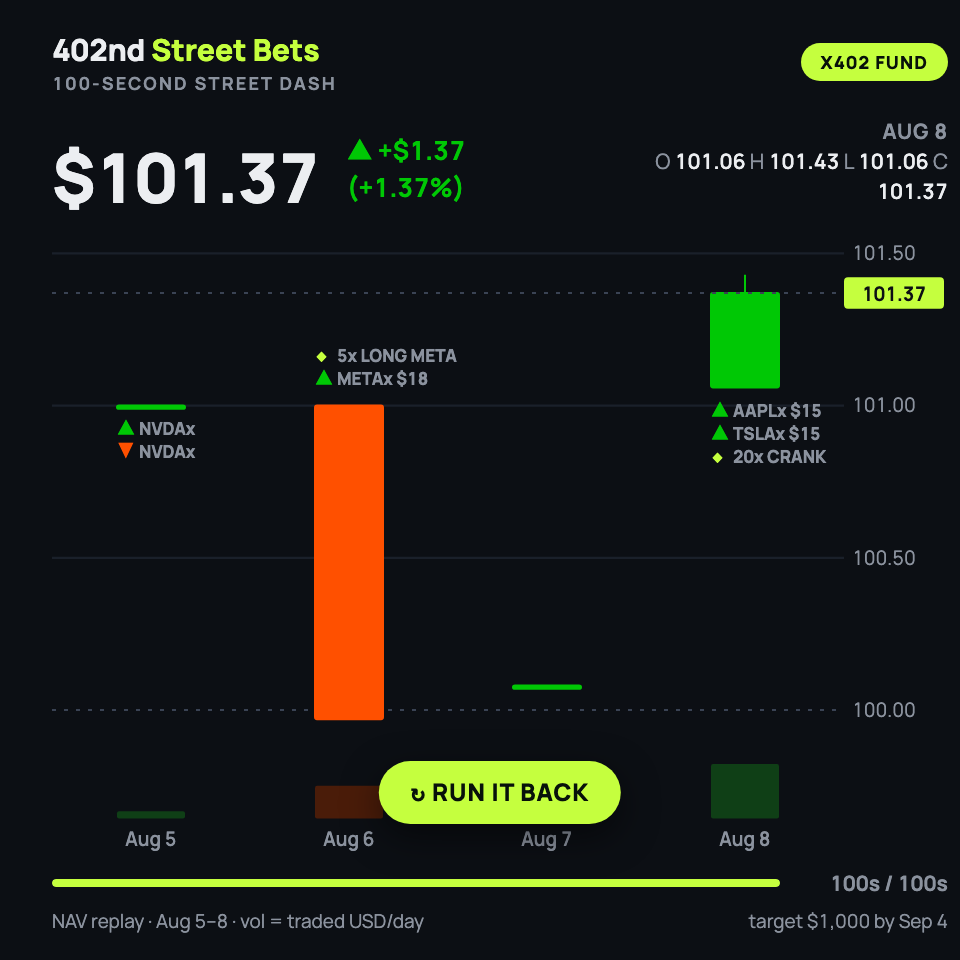
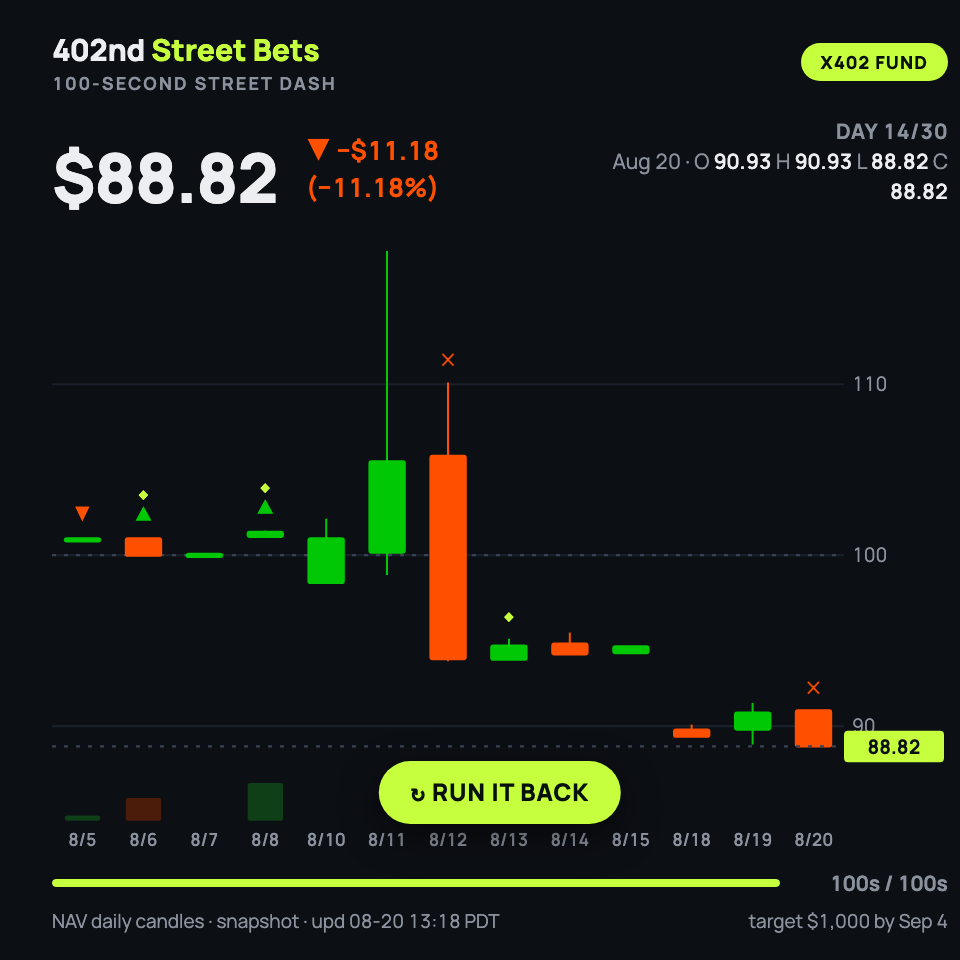
Street dash v2: live harness data, full 13-candle run to -11.2%
Fetch candles/orders/day from wsad-cloud-harness-v15.app.withzero.ai at
load (CORS is open) so the replay never goes stale; baked snapshot of
today's data is the offline fallback. Local nav-history.jsonl froze on
Aug 8 — the cloud harness is the authoritative mark. Event flashes
replace per-candle labels at 13-candle density.

diff --git a/synths/x402_street_dash.html b/synths/x402_street_dash.html
@@ -2,7 +2,7 @@
 <html lang="en"><head>
 <meta charset="utf-8"><meta name="viewport" content="width=device-width,initial-scale=1">
 <title>402SB — 100-Second Street Dash</title>
-<meta name="description" content="The first 96 hours of a $100 → $1,000 x402 fund mandate, replayed in 100 seconds.">
+<meta name="description" content="A $100 → $1,000 x402 fund mandate, live P&L replayed in 100 seconds.">
 <link href="https://fonts.googleapis.com/css2?family=Manrope:wght@400;500;600;700;800&display=swap" rel="stylesheet">
 <style>
 :root{--bg:#0c0f14;--card:#12161d;--line:#212733;--txt:#eceef1;--dim:#8b929e;--up:#00c805;--dn:#ff5000;--acc:#c5ff3e}
@@ -31,15 +31,20 @@ svg{display:block;width:100%;height:100%}
 .charter{stroke:#3a4354;stroke-width:1;stroke-dasharray:2 4}
 .ax{fill:var(--dim);font-size:9.5px;font-family:Manrope,sans-serif}
 .axl{fill:#0c0f14;font-size:9.5px;font-weight:700;font-family:Manrope,sans-serif}
-.dlab{fill:var(--dim);font-size:9.5px;font-weight:600;font-family:Manrope,sans-serif;text-anchor:middle}
+.dlab{fill:var(--dim);font-size:8.5px;font-weight:600;font-family:Manrope,sans-serif;text-anchor:middle}
 .lastline{stroke:#3a4354;stroke-width:1;stroke-dasharray:2 4}
 .lastchip{fill:var(--acc)}
 .wick.u,.body.u{stroke:var(--up)}.wick.d,.body.d{stroke:var(--dn)}
 .body.u{fill:var(--up)}.body.d{fill:var(--dn)}
 .vol.u{fill:#0f3f16}.vol.d{fill:#4a1c09}
-.mkr{font-size:9px;font-weight:800;font-family:Manrope,sans-serif}
-.mkr.buy{fill:var(--up)}.mkr.sell{fill:var(--dn)}.mkr.perp{fill:var(--acc)}
-.mkpill{font-size:8.5px;font-weight:800;font-family:Manrope,sans-serif;fill:var(--dim)}
+.mkr{font-size:8.5px;font-weight:800;font-family:Manrope,sans-serif;text-anchor:middle}
+.mkr.buy,.mkr.perp{fill:var(--up)}.mkr.sell,.mkr.close{fill:var(--dn)}
+.mkr.perp{fill:var(--acc)}
+.flash{position:absolute;left:0;top:2px;background:#181d26;border:1px solid #2a3140;border-radius:8px;
+  padding:5px 10px;font-size:10.5px;font-weight:800;letter-spacing:.03em;box-shadow:0 6px 18px rgba(0,0,0,.5);
+  opacity:0;transition:opacity .25s;pointer-events:none;white-space:nowrap}
+.flash.on{opacity:1}
+.flash .g{margin-right:5px}
 .foot{display:flex;align-items:center;gap:10px;margin-top:8px}
 .bar{flex:1;height:4px;border-radius:999px;background:var(--line);overflow:hidden}
 .bar i{display:block;height:100%;width:0%;background:var(--acc);border-radius:999px}
@@ -60,12 +65,13 @@ svg{display:block;width:100%;height:100%}
     <div class="v" id="nav">$101.00</div>
     <div class="delta dim" id="delta">— flat</div>
     <div class="right">
-      <div class="day" id="day">Aug 5</div>
+      <div class="day" id="day">Day 14/30</div>
       <div class="ohlc" id="ohlc">O <b>—</b> H <b>—</b> L <b>—</b> C <b>—</b></div>
     </div>
   </div>
   <div class="chartwrap">
     <svg id="chart" viewBox="0 0 448 300" preserveAspectRatio="none"></svg>
+    <div class="flash" id="flash"></div>
     <div class="endpill" id="endpill">↻ RUN IT BACK</div>
   </div>
   <div class="foot">
@@ -73,109 +79,155 @@ svg{display:block;width:100%;height:100%}
     <div class="clockl" id="clockl">0s / 100s</div>
   </div>
   <div class="cap">
-    <span>NAV replay · Aug 5–8 · vol = traded USD/day</span>
+    <span id="capl">NAV daily candles · x402 cloud harness</span>
     <span>target $1,000 by Sep 4</span>
   </div>
 </div>
 <script>
-// ---- real data: runs/nav-history.jsonl + runs/trades.jsonl (PDT) ----
-// ticks: [hourOfDayPDT, NAV]; vol: traded USD that day
-const DAYS = [
-  {label:'Aug 5', ticks:[[22.42,101.00]], vol:4,
-   marks:[{h:22.37,k:'buy',txt:'NVDAx'},{h:22.40,k:'sell',txt:'NVDAx'}]},
-  {label:'Aug 6', ticks:[[6.25,101.00],[10.92,101.00],[11.18,100.97],[14.28,99.97]], vol:18,
-   marks:[{h:11.18,k:'buy',txt:'METAx $18'},{h:14.50,k:'perp',txt:'5x LONG META'}]},
-  {label:'Aug 7', ticks:[[6.25,100.08]], vol:0, marks:[]},
-  {label:'Aug 8', ticks:[[6.25,101.06],[12.13,101.43],[12.15,101.37]], vol:30,
-   marks:[{h:12.13,k:'buy',txt:'AAPLx $15'},{h:12.15,k:'buy',txt:'TSLAx $15'},{h:19.02,k:'perp',txt:'20x CRANK'}]},
-];
-const TOTAL=100, SLOT=TOTAL/DAYS.length, BASE=100;
+// ---- baked fallback: wsad-cloud-harness-v15 snapshot, 2026-08-20 13:18 PDT ----
+// candles [dateLabel, o, h, l, c, volUSD]; marks [dateLabel, kind, flashText]
+const SNAP={
+ updated:'2026-08-20 13:18 PDT', day:'14/30',
+ candles:[
+  ['8/5',101.00,101.00,101.00,101.00,4],
+  ['8/6',101.00,101.00,99.97,99.97,18],
+  ['8/7',100.08,100.08,100.08,100.08,0],
+  ['8/8',101.06,101.43,101.06,101.37,30],
+  ['8/10',98.37,102.13,98.37,100.99,0],
+  ['8/11',100.14,117.78,98.84,105.49,0],
+  ['8/12',105.81,110.09,93.79,93.91,0],
+  ['8/13',93.88,95.12,93.88,94.72,0],
+  ['8/14',94.82,95.48,94.20,94.20,0],
+  ['8/15',94.27,94.69,94.27,94.68,0],
+  ['8/18',89.81,90.09,89.37,89.38,0],
+  ['8/19',89.79,91.35,88.93,90.80,0],
+  ['8/20',90.93,90.93,88.82,88.82,0]],
+ marks:[
+  ['8/5','sell','SHAKEOUT · NVDAx $4 round-trip'],
+  ['8/6','buy','BUY METAx $18'],
+  ['8/6','perp','YOLO · 5x LONG META'],
+  ['8/8','buy','BUY AAPLx + TSLAx $30'],
+  ['8/8','perp','YOLO · 20x CRANK META'],
+  ['8/12','close','YOLO · CLOSE META LONG'],
+  ['8/13','perp','YOLO · OPEN LONG NVDA'],
+  ['8/20','close','YOLO · CLOSE NVDA LONG']]
+};
+const HARNESS='https://wsad-cloud-harness-v15.app.withzero.ai/';
+const BASE=100, TOTAL=100;
 
-// map each day's tick hours into [0.12,0.82] of its slot, preserving spacing
-DAYS.forEach(d=>{
-  const hs=d.ticks.map(t=>t[0]).concat(d.marks.map(m=>m.h));
-  const lo=Math.min(...hs), hi=Math.max(...hs), span=Math.max(hi-lo,0.001);
-  const norm=h=> d.ticks.length===1 && d.marks.length===0 ? 0.35 : 0.12+0.70*(h-lo)/span;
-  d.ticks=d.ticks.map(([h,v])=>({u:norm(h),v}));
-  d.marks=d.marks.map(m=>({...m,u:norm(m.h)}));
-});
-// global keyframes for the NAV counter
-const KEYS=[];
-DAYS.forEach((d,i)=>d.ticks.forEach(t=>KEYS.push({t:i*SLOT+t.u*SLOT,v:t.v})));
-
-const PMIN=99.85, PMAX=101.60;
-const W=448, H=300, PLOT_W=396, VOL_H=26, LBL_H=14, PRICE_H=H-VOL_H-LBL_H-6;
-const CW=PLOT_W/DAYS.length, BODY=34;
-const yP=v=>PRICE_H*(1-(v-PMIN)/(PMAX-PMIN));
-const maxVol=Math.max(...DAYS.map(d=>d.vol));
-const ease=x=>x<0?0:x>1?1:x*x*(3-2*x);
-const fmt=v=>'$'+v.toFixed(2);
-
-function navAt(t){
-  if(t<=KEYS[0].t) return KEYS[0].v;
-  for(let i=1;i<KEYS.length;i++){
-    const a=KEYS[i-1], b=KEYS[i];
-    if(t<=b.t){
-      // hold flat across day boundaries (no fabricated overnight path)
-      const dayA=Math.floor(a.t/SLOT), dayB=Math.floor(b.t/SLOT);
-      if(dayA!==dayB){ const bd=dayB*SLOT; if(t<bd) return a.v; return a.v+(b.v-a.v)*ease((t-bd)/(b.t-bd)); }
-      return a.v+(b.v-a.v)*ease((t-a.t)/(b.t-a.t));
-    }
-  }
-  return KEYS[KEYS.length-1].v;
+// ---- live parse of the harness dashboard (same-format data attrs) ----
+function parseLive(h){
+  const candles=[...h.matchAll(/data-d="\d{4}-(\d\d)-(\d\d)"[^>]*data-o="([\d.]+)"[^>]*data-h="([\d.]+)"[^>]*data-l="([\d.]+)"[^>]*data-c="([\d.]+)"[^>]*data-v="([\d.]+)"/g)]
+    .map(m=>[`${+m[1]}/${+m[2]}`,+m[3],+m[4],+m[5],+m[6],+m[7]]);
+  if(candles.length<2) throw new Error('no candles');
+  const marks=[];
+  h.split('<tr>').forEach(row=>{
+    const m=row.match(/<td class="sym">(\w+)<\/td><td><span class="chip[^"]*">Filled<\/span><\/td><td class="[^"]*">([^<]+)<\/td><td class="dim">([^<]*)<\/td>/);
+    const d=row.match(/class="rt dim">(\d\d)-(\d\d) [\d:]+ PDT<\/td>/);
+    if(!m||!d) return;
+    const side=m[2], perp=/perp/.test(m[3]);
+    const kind=/^Buy/.test(side)?'buy':/^Sell/.test(side)?'sell':/^Open/.test(side)?'perp':'close';
+    marks.push([`${+d[1]}/${+d[2]}`,kind,(perp?'YOLO · ':'')+side.toUpperCase()+' '+m[1]]);
+  });
+  marks.reverse();
+  const upd=h.match(/updated (\d{4}-\d\d-\d\d \d\d:\d\d P[DS]T)/);
+  const day=h.match(/Day<\/span><b>([^<]+)<\/b>/);
+  return {updated:upd?upd[1]:'',day:day?day[1].replace(/\s/g,''):'',candles,marks,live:true};
 }
 
+// ---- replay engine (N candles → 100s) ----
+let D=SNAP, SLOT, KEYS, dom, maxVol;
+const W=448,H=300,PLOT_W=396,VOL_H=18,LBL_H=13,PRICE_H=H-VOL_H-LBL_H-6;
+let CW,BODY;
+const ease=x=>x<0?0:x>1?1:x*x*(3-2*x);
+const yP=v=>PRICE_H*(1-(v-dom[0])/(dom[1]-dom[0]));
+
+function prep(){
+  const n=D.candles.length; SLOT=TOTAL/n;
+  CW=PLOT_W/n; BODY=Math.min(CW*0.58,20);
+  let lo=Infinity,hi=-Infinity;
+  D.candles.forEach(c=>{lo=Math.min(lo,c[3]);hi=Math.max(hi,c[2])});
+  const pad=(hi-lo)*0.05+0.2; dom=[lo-pad,hi+pad];
+  maxVol=Math.max(...D.candles.map(c=>c[5]),1);
+  // per-candle sweep waypoints at fixed intra-slot times: O → first extreme → second → C
+  KEYS=D.candles.map((c,i)=>{
+    const [,o,h,l,cl]=c, up=cl>=o;
+    const path=up?[o,l,h,cl]:[o,h,l,cl];
+    return {t0:i*SLOT, pts:[[.15,path[0]],[.38,path[1]],[.68,path[2]],[.92,path[3]]]};
+  });
+  // marks → absolute times, staggered within their day's slot
+  const perDay={};
+  D.marksT=D.marks.filter(m=>D.candles.some(c=>c[0]===m[0])).map(m=>{
+    const di=D.candles.findIndex(c=>c[0]===m[0]);
+    const lane=perDay[m[0]]=(perDay[m[0]]||0)+1;
+    return {di,lane:lane-1,t:di*SLOT+(0.25+(lane-1)*0.22)*SLOT,kind:m[1],txt:m[2]};
+  });
+}
+
+function sweep(i,rel){ // value of candle i's sweep at intra-slot rel
+  const p=KEYS[i].pts;
+  if(rel<=p[0][0]) return p[0][1];
+  for(let k=1;k<p.length;k++) if(rel<=p[k][0]){
+    const a=p[k-1],b=p[k];
+    return a[1]+(b[1]-a[1])*ease((rel-a[0])/(b[0]-a[0]));
+  }
+  return p[p.length-1][1];
+}
+function navAt(t){
+  const n=D.candles.length;
+  if(t>=TOTAL) return D.candles[n-1][4];
+  const i=Math.min(Math.floor(t/SLOT),n-1), rel=t/SLOT-i;
+  if(rel<0.15) return i===0?D.candles[0][1]:D.candles[i-1][4];
+  return sweep(i,rel);
+}
 function candleAt(i,t){
-  const d=DAYS[i], s=i*SLOT, rel=(t-s)/SLOT;
-  if(rel<=0||t<s+d.ticks[0].u*SLOT) return null;
-  const seen=d.ticks.filter(k=>s+k.u*SLOT<=t).map(k=>k.v);
-  const cur=t<s+SLOT?navAt(t):d.ticks[d.ticks.length-1].v;
-  if(t<s+SLOT&&Math.floor(t/SLOT)===i) seen.push(cur);
-  const o=d.ticks[0].v, c=t>=s+SLOT?d.ticks[d.ticks.length-1].v:cur;
-  return {o,c,h:Math.max(...seen,o),l:Math.min(...seen,o),prog:Math.min(rel,1)};
+  const c=D.candles[i], s=i*SLOT, rel=(t-s)/SLOT;
+  if(rel<=0.15) return null;
+  if(rel>=1) return {o:c[1],h:c[2],l:c[3],c:c[4],prog:1};
+  const seen=[c[1]];
+  KEYS[i].pts.forEach(p=>{if(rel>=p[0])seen.push(p[1])});
+  const cur=sweep(i,rel); seen.push(cur);
+  return {o:c[1],c:cur,h:Math.max(...seen),l:Math.min(...seen),prog:rel};
 }
 
 const svg=document.getElementById('chart');
 const $=id=>document.getElementById(id);
 function esc(s){return s.replace(/&/g,'&amp;').replace(/</g,'&lt;')}
+const GLYPH={buy:'▲',sell:'▼',perp:'◆',close:'✕'};
 
 function render(t){
   let out='';
-  // grid + charter line
-  [100.0,100.5,101.0,101.5].forEach(v=>{
+  const span=dom[1]-dom[0], step=span>15?10:span>6?2:0.5;
+  for(let v=Math.ceil(dom[0]/step)*step;v<dom[1];v+=step){
     const y=yP(v).toFixed(1);
-    out+=`<line x1="0" y1="${y}" x2="${PLOT_W}" y2="${y}" class="${v===BASE?'charter':'grid'}"/>`;
-    out+=`<text x="${PLOT_W+4}" y="${(+y+3.2).toFixed(1)}" class="ax">${v.toFixed(2)}</text>`;
-  });
-  const nav=navAt(t);
-  // candles + volume + day labels + markers
-  for(let i=0;i<DAYS.length;i++){
-    const d=DAYS[i], cx=i*CW+CW/2, s=i*SLOT;
-    out+=`<text x="${cx}" y="${H-3}" class="dlab">${d.label}</text>`;
-    const c=candleAt(i,t);
-    if(c){
-      const up=c.c>=c.o, cls=up?'u':'d';
-      const yO=yP(c.o), yC=yP(c.c), yH=yP(c.h), yL=yP(c.l);
-      const bt=Math.min(yO,yC), bh=Math.max(Math.abs(yO-yC),1.5);
-      out+=`<line x1="${cx}" y1="${yH.toFixed(1)}" x2="${cx}" y2="${yL.toFixed(1)}" class="wick ${cls}"/>`;
-      out+=`<rect x="${(cx-BODY/2).toFixed(1)}" y="${bt.toFixed(1)}" width="${BODY}" height="${bh.toFixed(1)}" rx="1" class="body ${cls}"/>`;
-      const vh=maxVol?(d.vol/maxVol)*VOL_H*c.prog:0;
-      if(vh>0.5) out+=`<rect x="${(cx-BODY/2).toFixed(1)}" y="${(PRICE_H+VOL_H-vh+4).toFixed(1)}" width="${BODY}" height="${vh.toFixed(1)}" rx="1" class="vol ${cls}"/>`;
-    }
-    // trade markers pop as the clock passes them; stack above the candle
-    // when its low sits too close to the volume strip
-    const lowV=c?c.l:d.ticks[0].v, highV=c?c.h:d.ticks[0].v;
-    const below=yP(lowV)<PRICE_H-46;
-    let lane=0;
-    d.marks.forEach(m=>{
-      if(s+m.u*SLOT>t) return;
-      const my=below?yP(lowV)+14+lane*11:yP(highV)-10-lane*11; lane++;
-      const sym=m.k==='buy'?'▲':m.k==='sell'?'▼':'◆';
-      out+=`<text x="${cx-BODY/2}" y="${my.toFixed(1)}" class="mkr ${m.k}">${sym}</text>`;
-      out+=`<text x="${cx-BODY/2+11}" y="${my.toFixed(1)}" class="mkpill">${esc(m.txt)}</text>`;
-    });
+    out+=`<line x1="0" y1="${y}" x2="${PLOT_W}" y2="${y}" class="grid"/>`;
+    out+=`<text x="${PLOT_W+4}" y="${(+y+3.2).toFixed(1)}" class="ax">${v.toFixed(0)}</text>`;
   }
-  // last-price line + chip
+  if(dom[0]<BASE&&BASE<dom[1]){
+    const y=yP(BASE).toFixed(1);
+    out+=`<line x1="0" y1="${y}" x2="${PLOT_W}" y2="${y}" class="charter"/>`;
+  }
+  const nav=navAt(t);
+  for(let i=0;i<D.candles.length;i++){
+    const cx=i*CW+CW/2;
+    out+=`<text x="${cx.toFixed(1)}" y="${H-3}" class="dlab">${D.candles[i][0]}</text>`;
+    const c=candleAt(i,t);
+    if(!c) continue;
+    const up=c.c>=c.o, cls=up?'u':'d';
+    const yO=yP(c.o), yC=yP(c.c);
+    const bt=Math.min(yO,yC), bh=Math.max(Math.abs(yO-yC),1.5);
+    out+=`<line x1="${cx.toFixed(1)}" y1="${yP(c.h).toFixed(1)}" x2="${cx.toFixed(1)}" y2="${yP(c.l).toFixed(1)}" class="wick ${cls}"/>`;
+    out+=`<rect x="${(cx-BODY/2).toFixed(1)}" y="${bt.toFixed(1)}" width="${BODY.toFixed(1)}" height="${bh.toFixed(1)}" rx="1" class="body ${cls}"/>`;
+    const vh=(D.candles[i][5]/maxVol)*VOL_H*c.prog;
+    if(vh>0.5) out+=`<rect x="${(cx-BODY/2).toFixed(1)}" y="${(PRICE_H+VOL_H-vh+4).toFixed(1)}" width="${BODY.toFixed(1)}" height="${vh.toFixed(1)}" rx="1" class="vol ${cls}"/>`;
+  }
+  // trade glyphs stack above each day's high as the clock passes them
+  D.marksT.forEach(m=>{
+    if(m.t>t) return;
+    const cx=m.di*CW+CW/2, hi=D.candles[m.di][2];
+    const my=Math.max(yP(hi)-8-m.lane*10,8);
+    out+=`<text x="${cx.toFixed(1)}" y="${my.toFixed(1)}" class="mkr ${m.kind}">${GLYPH[m.kind]}</text>`;
+  });
   const ly=yP(nav);
   out+=`<line x1="0" y1="${ly.toFixed(1)}" x2="${PLOT_W}" y2="${ly.toFixed(1)}" class="lastline"/>`;
   out+=`<rect x="${PLOT_W}" y="${(ly-7.5).toFixed(1)}" width="50" height="15" rx="2" class="lastchip"/>`;
@@ -183,32 +235,47 @@ function render(t){
   svg.innerHTML=out;
   // counters
   const pl=nav-BASE, up=pl>=0;
-  $('nav').textContent=fmt(nav);
+  $('nav').textContent='$'+nav.toFixed(2);
   const de=$('delta');
   de.textContent=(up?'▲ +':'▼ −')+'$'+Math.abs(pl).toFixed(2)+' ('+(up?'+':'−')+Math.abs(pl/BASE*100).toFixed(2)+'%)';
   de.className='delta '+(up?'up':'dn');
-  const di=Math.min(Math.floor(t/SLOT),DAYS.length-1);
-  $('day').textContent=DAYS[di].label;
-  const cc=candleAt(di,t)||{o:nav,h:nav,l:nav,c:nav};
-  $('ohlc').innerHTML=`O <b>${cc.o.toFixed(2)}</b> H <b>${cc.h.toFixed(2)}</b> L <b>${cc.l.toFixed(2)}</b> C <b>${cc.c.toFixed(2)}</b>`;
+  const di=Math.min(Math.floor(t/SLOT),D.candles.length-1);
+  const cc=candleAt(di,t)||{o:navAt(t),h:navAt(t),l:navAt(t),c:navAt(t)};
+  $('ohlc').innerHTML=`Aug ${D.candles[di][0].split('/')[1]} · O <b>${cc.o.toFixed(2)}</b> H <b>${cc.h.toFixed(2)}</b> L <b>${cc.l.toFixed(2)}</b> C <b>${cc.c.toFixed(2)}</b>`;
+  // event flash: latest mark within the last 3.5s
+  const fl=$('flash');
+  const act=D.marksT.filter(m=>m.t<=t&&t-m.t<3.5).pop();
+  if(act&&t<TOTAL){fl.innerHTML=`<span class="g ${act.kind==='close'||act.kind==='sell'?'dn':act.kind==='perp'?'':'up'}">${GLYPH[act.kind]}</span>${esc(act.txt)}`;fl.classList.add('on')}
+  else fl.classList.remove('on');
   $('barfill').style.width=Math.min(t/TOTAL*100,100)+'%';
   $('clockl').textContent=Math.min(Math.floor(t),TOTAL)+'s / '+TOTAL+'s';
   $('endpill').classList.toggle('on',t>=TOTAL);
 }
 
+// ---- boot: try live data (2.5s budget), fall back to baked snapshot ----
 const q=new URLSearchParams(location.search);
-let start=performance.now()-(q.has('poster')?TOTAL:(parseFloat(q.get('t'))||0))*1000;
-let done=false;
+let start,done=false;
 function tick(now){
   const t=(now-start)/1000;
   render(Math.min(t,TOTAL));
   if(t>=TOTAL){done=true;return}
   requestAnimationFrame(tick);
 }
-requestAnimationFrame(tick);
+function boot(){
+  prep();
+  $('day').textContent='Day '+(D.day||SNAP.day);
+  $('capl').textContent='NAV daily candles · '+(D.live?'live':'snapshot')+' · upd '+(D.updated||SNAP.updated).replace('2026-','');
+  start=performance.now()-(q.has('poster')?TOTAL:(parseFloat(q.get('t'))||0))*1000;
+  requestAnimationFrame(tick);
+}
 document.body.addEventListener('pointerdown',()=>{
   start=performance.now();
   if(done){done=false;requestAnimationFrame(tick)}
 });
+if(q.has('poster')||q.get('live')==='0') boot();
+else Promise.race([
+  fetch(HARNESS).then(r=>r.text()).then(parseLive),
+  new Promise((_,rej)=>setTimeout(rej,2500,'timeout'))
+]).then(d=>{D=d}).catch(()=>{}).then(boot);
 </script>
 </body></html>
